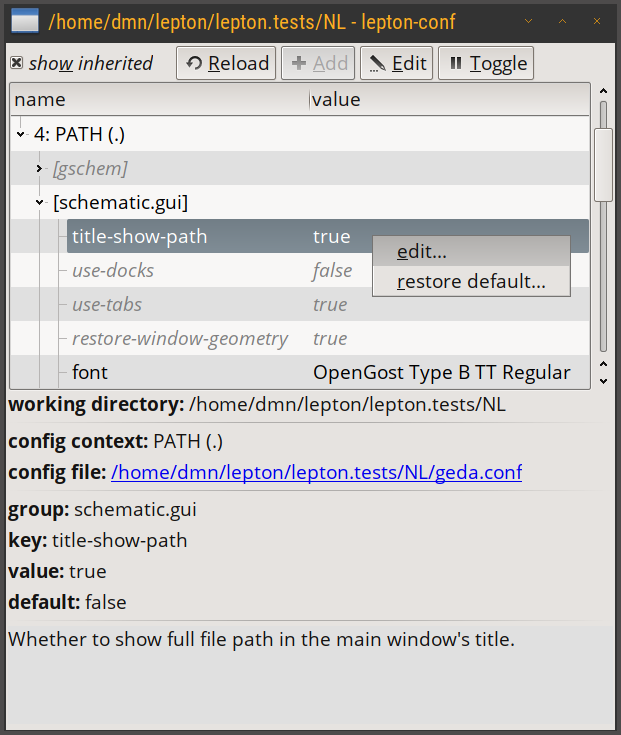
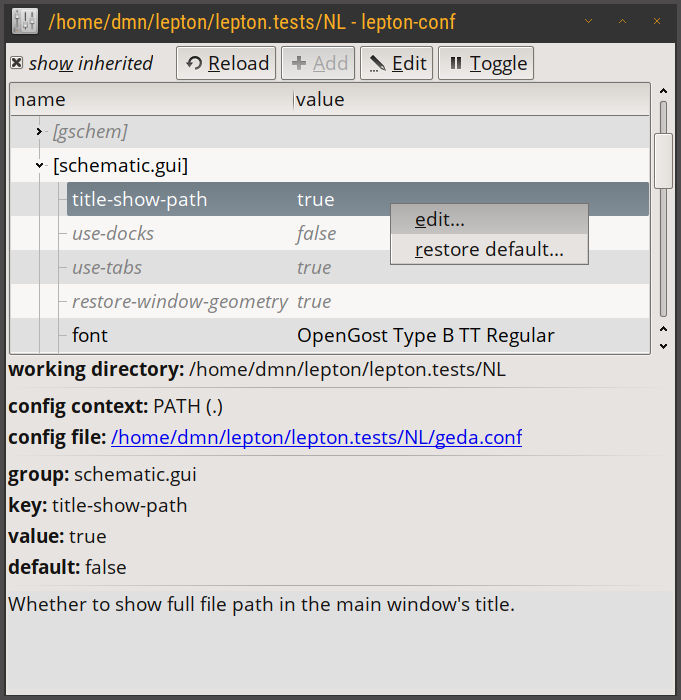
docs: screenshots updated; add page footer

Changed region(s): [[0.0, 0.0, 1.0, 0.9], [0.0, 0.99, 0.9791, 1.0]]

diff --git a/docs/index.htm b/docs/index.htm
@@ -96,5 +96,11 @@ Default configuration settings ( truncated :) ):
 <br />
 -->
 
+<br />
+<hr />
+updated: 23/Nov/2019 &nbsp;&nbsp;&nbsp;&nbsp; copyright (c) 2017-2019
+<a href='https://github.com/graahnul-grom'>dmn</a>
+<br />
+
 </body>
 </html>
